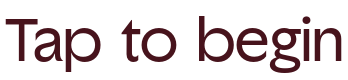
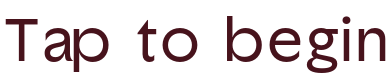
Loosen Tap to begin letter spacing (tracking 72)
Claude-Session: https://claude.ai/code/session_01M84a3FKwMRkSZpHB3s8xrt

diff --git a/index.html b/index.html
@@ -170,7 +170,7 @@ h1{font-size:2.5rem}h2{font-size:1.9rem}.slide h3{font-size:1.6rem;margin-top:14
     <video id="introvid" src="assets/landing-full.mp4" poster="assets/poster.jpg" muted playsinline webkit-playsinline preload="auto" aria-hidden="true"></video>
     <img class="panel" src="assets/title.jpg" alt="The Nail Book">
     <video id="loopvid" class="loop" src="assets/wobble.mp4" muted playsinline webkit-playsinline loop preload="auto" aria-hidden="true"></video>
-    <button class="go" type="button"><img src="assets/tapbegin.png" alt="Tap to begin" width="87" height="20" style="display:block;width:87px;height:auto"></button>
+    <button class="go" type="button"><img src="assets/tapbegin.png" alt="Tap to begin" width="98" height="20" style="display:block;width:98px;height:auto"></button>
   </div>
 </div>
 <style>
